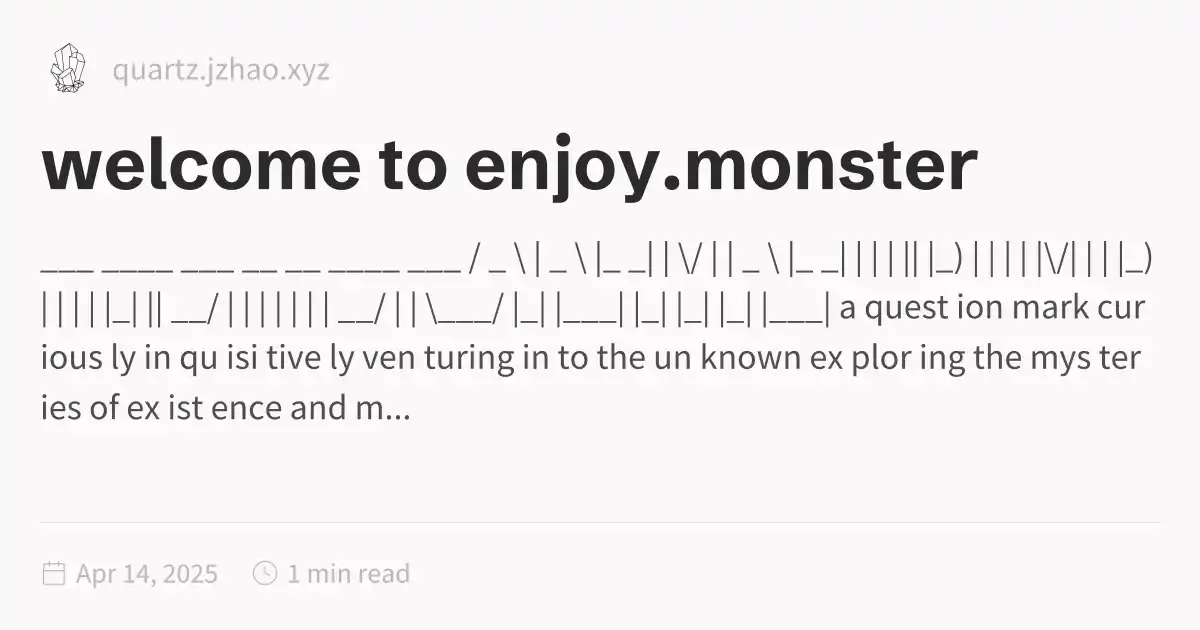
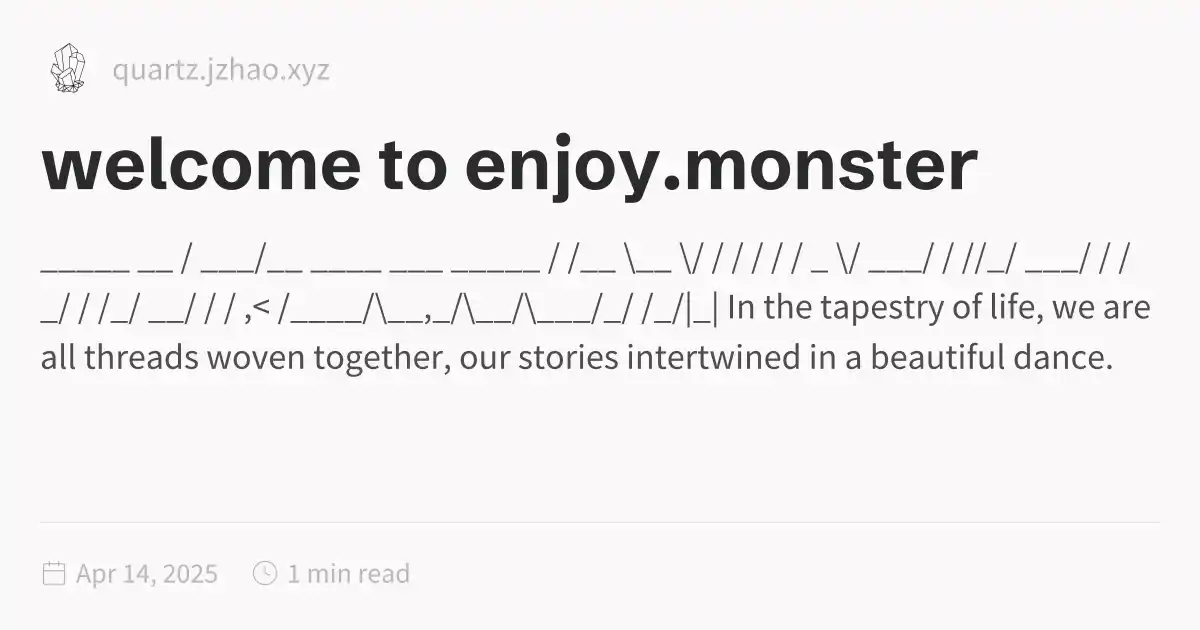
Deploying to gh-pages from @ doomdagadiggiedahdah/blog@fd54c26e721271869636ceea2251537d32a23ad7 🚀

diff --git a/blog/index.html b/blog/index.html
@@ -116,6 +116,6 @@ pre:hover > .expand-button {
   padding: 0 12px;
   font-size: 14px;
 }
[2 lines of base64/hex data omitted]
 </script><script type="module">function f(i,e){if(!i)return;function r(o){o.target===this&&(o.preventDefault(),o.stopPropagation(),e())}function t(o){o.key.startsWith("Esc")&&(o.preventDefault(),e())}i?.addEventListener("click",r),window.addCleanup(()=>i?.removeEventListener("click",r)),document.addEventListener("keydown",t),window.addCleanup(()=>document.removeEventListener("keydown",t))}function y(i){for(;i.firstChild;)i.removeChild(i.firstChild)}var h=class{constructor(e,r){this.container=e;this.content=r;this.setupEventListeners(),this.setupNavigationControls(),this.resetTransform()}isDragging=!1;startPan={x:0,y:0};currentPan={x:0,y:0};scale=1;MIN_SCALE=.5;MAX_SCALE=3;cleanups=[];setupEventListeners(){let e=this.onMouseDown.bind(this),r=this.onMouseMove.bind(this),t=this.onMouseUp.bind(this),o=this.resetTransform.bind(this);this.container.addEventListener("mousedown",e),document.addEventListener("mousemove",r),document.addEventListener("mouseup",t),window.addEventListener("resize",o),this.cleanups.push(()=>this.container.removeEventListener("mousedown",e),()=>document.removeEventListener("mousemove",r),()=>document.removeEventListener("mouseup",t),()=>window.removeEventListener("resize",o))}cleanup(){for(let e of this.cleanups)e()}setupNavigationControls(){let e=document.createElement("div");e.className="mermaid-controls";let r=this.createButton("+",()=>this.zoom(.1)),t=this.createButton("-",()=>this.zoom(-.1)),o=this.createButton("Reset",()=>this.resetTransform());e.appendChild(t),e.appendChild(o),e.appendChild(r),this.container.appendChild(e)}createButton(e,r){let t=document.createElement("button");return t.textContent=e,t.className="mermaid-control-button",t.addEventListener("click",r),window.addCleanup(()=>t.removeEventListener("click",r)),t}onMouseDown(e){e.button===0&&(this.isDragging=!0,this.startPan={x:e.clientX-this.currentPan.x,y:e.clientY-this.currentPan.y},this.container.style.cursor="grabbing")}onMouseMove(e){this.isDragging&&(e.preventDefault(),this.currentPan={x:e.clientX-this.startPan.x,y:e.clientY-this.startPan.y},this.updateTransform())}onMouseUp(){this.isDragging=!1,this.container.style.cursor="grab"}zoom(e){let r=Math.min(Math.max(this.scale+e,this.MIN_SCALE),this.MAX_SCALE),t=this.content.getBoundingClientRect(),o=t.width/2,n=t.height/2,c=r-this.scale;this.currentPan.x-=o*c,this.currentPan.y-=n*c,this.scale=r,this.updateTransform()}updateTransform(){this.content.style.transform=`translate(${this.currentPan.x}px, ${this.currentPan.y}px) scale(${this.scale})`}resetTransform(){this.scale=1;let e=this.content.querySelector("svg");this.currentPan={x:e.getBoundingClientRect().width/2,y:e.getBoundingClientRect().height/2},this.updateTransform()}},C=["--secondary","--tertiary","--gray","--light","--lightgray","--highlight","--dark","--darkgray","--codeFont"],E;document.addEventListener("nav",async()=>{let e=document.querySelector(".center").querySelectorAll("code.mermaid");if(e.length===0)return;E||=await import("https://cdnjs.cloudflare.com/ajax/libs/mermaid/11.4.0/mermaid.esm.min.mjs");let r=E.default,t=new WeakMap;for(let n of e)t.set(n,n.innerText);async function o(){for(let s of e){s.removeAttribute("data-processed");let a=t.get(s);a&&(s.innerHTML=a)}let n=C.reduce((s,a)=>(s[a]=window.getComputedStyle(document.documentElement).getPropertyValue(a),s),{}),c=document.documentElement.getAttribute("saved-theme")==="dark";r.initialize({startOnLoad:!1,securityLevel:"loose",theme:c?"dark":"base",themeVariables:{fontFamily:n["--codeFont"],primaryColor:n["--light"],primaryTextColor:n["--darkgray"],primaryBorderColor:n["--tertiary"],lineColor:n["--darkgray"],secondaryColor:n["--secondary"],tertiaryColor:n["--tertiary"],clusterBkg:n["--light"],edgeLabelBackground:n["--highlight"]}}),await r.run({nodes:e})}await o(),document.addEventListener("themechange",o),window.addCleanup(()=>document.removeEventListener("themechange",o));for(let n=0;n<e.length;n++){let v=function(){let g=l.querySelector("#mermaid-space"),m=l.querySelector(".mermaid-content");if(!m)return;y(m);let w=c.querySelector("svg").cloneNode(!0);m.appendChild(w),l.classList.add("active"),g.style.cursor="grab",u=new h(g,m)},M=function(){l.classList.remove("active"),u?.cleanup(),u=null},c=e[n],s=c.parentElement,a=s.querySelector(".clipboard-button"),d=s.querySelector(".expand-button"),p=window.getComputedStyle(a),L=a.offsetWidth+parseFloat(p.marginLeft||"0")+parseFloat(p.marginRight||"0");d.style.right=`calc(${L}px + 0.3rem)`,s.prepend(d);let l=s.querySelector("#mermaid-container");if(!l)return;let u=null;d.addEventListener("click",v),f(l,M),window.addCleanup(()=>{u?.cleanup(),d.removeEventListener("click",v)})}});
 </script><script src="https://cdn.jsdelivr.net/npm/katex@0.16.11/dist/contrib/copy-tex.min.js" type="application/javascript"></script><script src="../postscript.js" type="module"></script></html>

diff --git a/index.html b/index.html
@@ -1,5 +1,5 @@
 <!DOCTYPE html>
-<html lang="en"><head><title>welcome to enjoy.monster</title><meta charset="utf-8"/><link rel="preconnect" href="https://fonts.googleapis.com"/><link rel="preconnect" href="https://fonts.gstatic.com"/><link rel="stylesheet" href="https://fonts.googleapis.com/css2?family=Schibsted Grotesk:wght@400;700&amp;family=Source Sans Pro:ital,wght@0,400;0,600;1,400;1,600&amp;family=IBM Plex Mono:wght@400;600&amp;display=swap"/><link rel="preconnect" href="https://cdnjs.cloudflare.com" crossorigin="anonymous"/><meta name="viewport" content="width=device-width, initial-scale=1.0"/><meta name="og:site_name" content="Quartz 4"/><meta property="og:title" content="welcome to enjoy.monster"/><meta property="og:type" content="website"/><meta name="twitter:card" content="summary_large_image"/><meta name="twitter:title" content="welcome to enjoy.monster"/><meta name="twitter:description" content="___ ____ ___ __ __ ____ ___ / _ \ | _ \ |_ _| | \/ | | _ \ |_ _| | | | || |_) | | | | |\/| | | |_) | | | | |_| || __/ | | | | | | | __/ | | \___/ |_| |___| |_| |_| |_| |___| a quest ion mark cur ious ly in qu isi tive ly ven turing in to the un known ex plor ing the mys ter ies of ex ist ence and m..."/><meta property="og:description" content="___ ____ ___ __ __ ____ ___ / _ \ | _ \ |_ _| | \/ | | _ \ |_ _| | | | || |_) | | | | |\/| | | |_) | | | | |_| || __/ | | | | | | | __/ | | \___/ |_| |___| |_| |_| |_| |___| a quest ion mark cur ious ly in qu isi tive ly ven turing in to the un known ex plor ing the mys ter ies of ex ist ence and m..."/><meta property="og:image:alt" content="___ ____ ___ __ __ ____ ___ / _ \ | _ \ |_ _| | \/ | | _ \ |_ _| | | | || |_) | | | | |\/| | | |_) | | | | |_| || __/ | | | | | | | __/ | | \___/ |_| |___| |_| |_| |_| |___| a quest ion mark cur ious ly in qu isi tive ly ven turing in to the un known ex plor ing the mys ter ies of ex ist ence and m..."/><meta property="twitter:domain" content="quartz.jzhao.xyz"/><meta property="og:url" content="https://quartz.jzhao.xyz/index"/><meta property="twitter:url" content="https://quartz.jzhao.xyz/index"/><link rel="icon" href="./static/icon.png"/><meta name="description" content="___ ____ ___ __ __ ____ ___ / _ \ | _ \ |_ _| | \/ | | _ \ |_ _| | | | || |_) | | | | |\/| | | |_) | | | | |_| || __/ | | | | | | | __/ | | \___/ |_| |___| |_| |_| |_| |___| a quest ion mark cur ious ly in qu isi tive ly ven turing in to the un known ex plor ing the mys ter ies of ex ist ence and m..."/><meta name="generator" content="Quartz"/><link href="./index.css" rel="stylesheet" type="text/css" spa-preserve/><style>.expand-button {
+<html lang="en"><head><title>welcome to enjoy.monster</title><meta charset="utf-8"/><link rel="preconnect" href="https://fonts.googleapis.com"/><link rel="preconnect" href="https://fonts.gstatic.com"/><link rel="stylesheet" href="https://fonts.googleapis.com/css2?family=Schibsted Grotesk:wght@400;700&amp;family=Source Sans Pro:ital,wght@0,400;0,600;1,400;1,600&amp;family=IBM Plex Mono:wght@400;600&amp;display=swap"/><link rel="preconnect" href="https://cdnjs.cloudflare.com" crossorigin="anonymous"/><meta name="viewport" content="width=device-width, initial-scale=1.0"/><meta name="og:site_name" content="Quartz 4"/><meta property="og:title" content="welcome to enjoy.monster"/><meta property="og:type" content="website"/><meta name="twitter:card" content="summary_large_image"/><meta name="twitter:title" content="welcome to enjoy.monster"/><meta name="twitter:description" content="_____ __ / ___/__ ____ ___ _____ / /__ \__ \/ / / / / / _ \/ ___/ / //_/ ___/ / /_/ / /_/ __/ / / ,&lt; /____/\__,_/\__/\___/_/ /_/|_| In the tapestry of life, we are all threads woven together, our stories intertwined in a beautiful dance."/><meta property="og:description" content="_____ __ / ___/__ ____ ___ _____ / /__ \__ \/ / / / / / _ \/ ___/ / //_/ ___/ / /_/ / /_/ __/ / / ,&lt; /____/\__,_/\__/\___/_/ /_/|_| In the tapestry of life, we are all threads woven together, our stories intertwined in a beautiful dance."/><meta property="og:image:alt" content="_____ __ / ___/__ ____ ___ _____ / /__ \__ \/ / / / / / _ \/ ___/ / //_/ ___/ / /_/ / /_/ __/ / / ,&lt; /____/\__,_/\__/\___/_/ /_/|_| In the tapestry of life, we are all threads woven together, our stories intertwined in a beautiful dance."/><meta property="twitter:domain" content="quartz.jzhao.xyz"/><meta property="og:url" content="https://quartz.jzhao.xyz/index"/><meta property="twitter:url" content="https://quartz.jzhao.xyz/index"/><link rel="icon" href="./static/icon.png"/><meta name="description" content="_____ __ / ___/__ ____ ___ _____ / /__ \__ \/ / / / / / _ \/ ___/ / //_/ ___/ / /_/ / /_/ __/ / / ,&lt; /____/\__,_/\__/\___/_/ /_/|_| In the tapestry of life, we are all threads woven together, our stories intertwined in a beautiful dance."/><meta name="generator" content="Quartz"/><link href="./index.css" rel="stylesheet" type="text/css" spa-preserve/><style>.expand-button {
   position: absolute;
   display: flex;
   float: right;
@@ -116,36 +116,35 @@ pre:hover > .expand-button {
   padding: 0 12px;
   font-size: 14px;
 }
[1 lines of base64/hex data omitted]
-         / _ \ |  _ \  |_ _| |  \/  | |  _ \  |_ _|
-        | | | || |_) |  | |  | |\/| | | |_) |  | |
-        | |_| ||  __/   | |  | |  | | |  __/   | |
-         \___/ |_|     |___| |_|  |_| |_|     |___|
[1 lines of base64/hex data omitted]
+      / ___/__  ____  ___  _____   / /__ 
+      \__ \/ / / / / / _ \/ ___/  / //_/ 
+     ___/ / /_/ / /_/  __/ /     / ,&lt;    
+    /____/\__,_/\__/\___/_/     /_/|_|   
+                                         
+    In the tapestry of life, we are all
+    threads woven together, our stories
+    intertwined in a beautiful dance.
 
-       a quest      ion
-                       mark
-           cur   ious   ly
-       in  qu  isi  tive  ly
-             ven       turing
-       in  to   the   un  known
-          ex      plor      ing
-             the   mys   ter   ies
-       of   ex  ist  ence   and
-                mean        ing
+    Each color, each texture, each pattern
+    unique and essential to the whole.
 
-       seek     ing
-          an   swers   in
-       the   vast  ness  of
-             in      fin    ity
-       and   the   depths  of
-                the        soul
-          find    ing
-             beau    ty    in
-       the   search   it  self
-          em      brac     ing
-             the   jour   ney
-       of   dis  cov  ery  and
-                won        der
+    In moments of joy, we shine bright,
+    our laughter echoing like golden threads.
+
+    In times of sorrow, we find solace
+    in the gentle embrace of silver strands.
+
+    Through the challenges and triumphs,
+    we grow, we learn, we evolve,
+    our threads ever-changing, ever-strong.
+
+    In the end, when the final stitch is sewn,
+    we'll step back and marvel at the masterpiece
+    created by the interweaving of our lives.
+
+    A testament to the beauty, the resilience,
+    and the indomitable spirit within us all.
 </code></pre>
 <p><em>~~Made with love and wonder by Claude and <a href="https://github.com/doomdagadiggiedahdah/blog/blob/main/daily_poem.py" class="external">magic<svg aria-hidden="true" class="external-icon" style="max-width:0.8em;max-height:0.8em;" viewBox="0 0 512 512"><path d="M320 0H288V64h32 82.7L201.4 265.4 178.7 288 224 333.3l22.6-22.6L448 109.3V192v32h64V192 32 0H480 320zM32 32H0V64 480v32H32 456h32V480 352 320H424v32 96H64V96h96 32V32H160 32z"></path></svg></a>~~</em></p></article><hr/><div class="page-footer"></div></div><div class="right sidebar"><div class="graph"><h3>Graph View</h3><div class="graph-outer"><div class="graph-container" data-cfg="{&quot;drag&quot;:true,&quot;zoom&quot;:true,&quot;depth&quot;:1,&quot;scale&quot;:1.1,&quot;repelForce&quot;:0.5,&quot;centerForce&quot;:0.3,&quot;linkDistance&quot;:30,&quot;fontSize&quot;:0.6,&quot;opacityScale&quot;:1,&quot;showTags&quot;:true,&quot;removeTags&quot;:[],&quot;focusOnHover&quot;:false,&quot;enableRadial&quot;:false}"></div><button class="global-graph-icon" aria-label="Global Graph"><svg version="1.1" xmlns="http://www.w3.org/2000/svg" xmlns:xlink="http://www.w3.org/1999/xlink" x="0px" y="0px" viewBox="0 0 55 55" fill="currentColor" xml:space="preserve"><path d="M49,0c-3.309,0-6,2.691-6,6c0,1.035,0.263,2.009,0.726,2.86l-9.829,9.829C32.542,17.634,30.846,17,29,17
                 s-3.542,0.634-4.898,1.688l-7.669-7.669C16.785,10.424,17,9.74,17,9c0-2.206-1.794-4-4-4S9,6.794,9,9s1.794,4,4,4

diff --git a/blog/master-as-the-needle.html b/blog/master-as-the-needle.html
@@ -116,7 +116,7 @@ pre:hover > .expand-button {
   padding: 0 12px;
   font-size: 14px;
 }
[2 lines of base64/hex data omitted]
 <ul>
 <li>
 <p>“Tell me and I’ll forget, show me I’ll remember, involve me and I’ll understand.”</p>

diff --git a/blog/quartz---working-notes.html b/blog/quartz---working-notes.html
@@ -116,7 +116,7 @@ pre:hover > .expand-button {
   padding: 0 12px;
   font-size: 14px;
 }
[2 lines of base64/hex data omitted]
 <ul>
 <li>revamp my dang blog</li>
 </ul>
